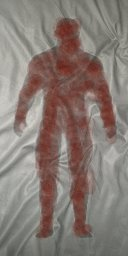
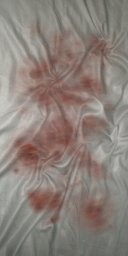
Revised corpse model and fire effect.

diff --git a/corpse.js b/corpse.js
@@ -75,9 +75,9 @@ EASY.corpse = {
 		SOAR.subdivide(4, -0.5, -1, 0.5, 1, 
 			function(x0, z0, x1, z1, x2, z2) {
 
-				var y0 = (0.25 - x0 * x0) * (1 - z0 * z0) - 0.05;
-				var y1 = (0.25 - x1 * x1) * (1 - z1 * z1) - 0.05;
-				var y2 = (0.25 - x2 * x2) * (1 - z2 * z2) - 0.05;
+				var y0 = (0.25 - x0 * x0) * (1 - z0 * z0) - 0.025;
+				var y1 = (0.25 - x1 * x1) * (1 - z1 * z1) - 0.025;
+				var y2 = (0.25 - x2 * x2) * (1 - z2 * z2) - 0.025;
 
 				that.mesh.set(x0, y0, z0, 0.5 + x0, 0.5 * (z0 + 1));
 				that.mesh.set(x1, y1, z1, 0.5 + x1, 0.5 * (z1 + 1));
